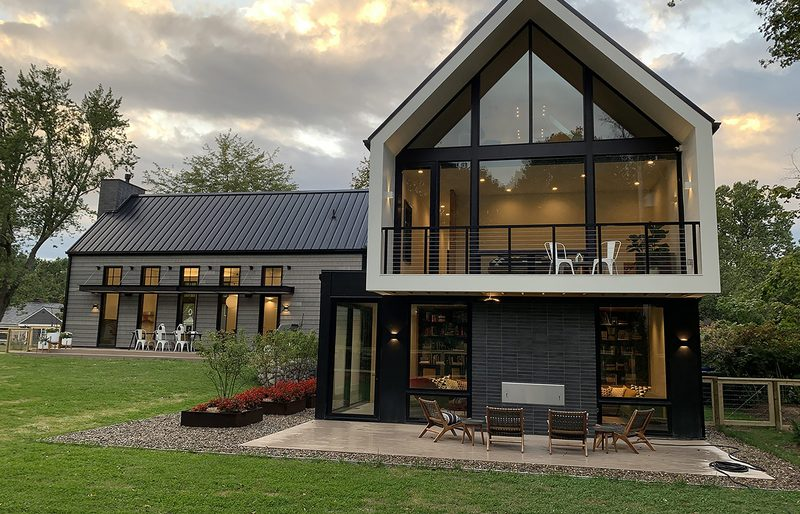
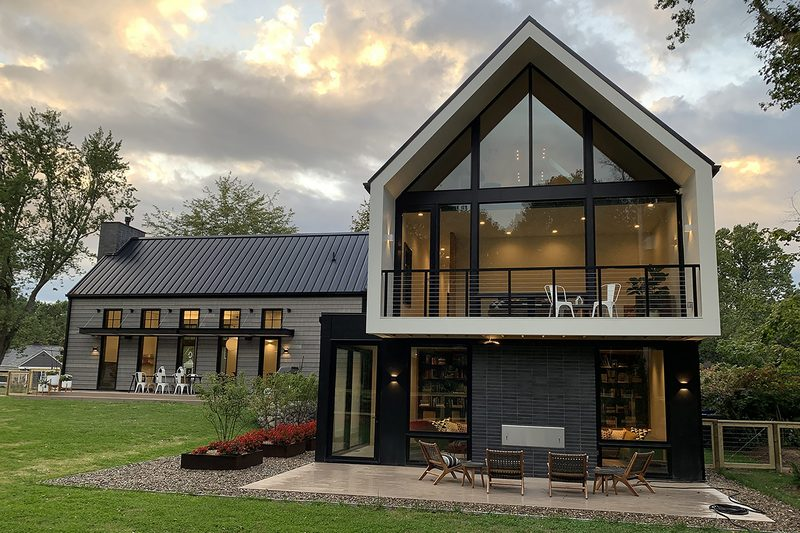
Fix Quartz and Kolbe card thumbnail framing
Quartz: top-anchored 3:2 crop keeps roof peak, trims foreground grass.
Kolbe: portrait green-house photo could never fit a 3:2 card; swap to
the landscape lakefront estate (kolbe-4) so the whole house is centered.

diff --git a/index.html b/index.html
@@ -256,7 +256,7 @@
     </div>
     <div class="products__grid">
       <a href="kolbe.html" class="product-card">
-        <div class="product-card__img"><img src="assets/images/kolbe.jpg?v=2" alt="Kolbe Windows & Doors" /></div>
+        <div class="product-card__img"><img src="assets/images/kolbe.jpg?v=3" alt="Kolbe Windows & Doors" /></div>
         <div class="product-card__body">
           <div class="product-card__name">Kolbe</div>
           <p class="product-card__tagline">Heirloom wood windows and doors, handcrafted since 1946.</p>
